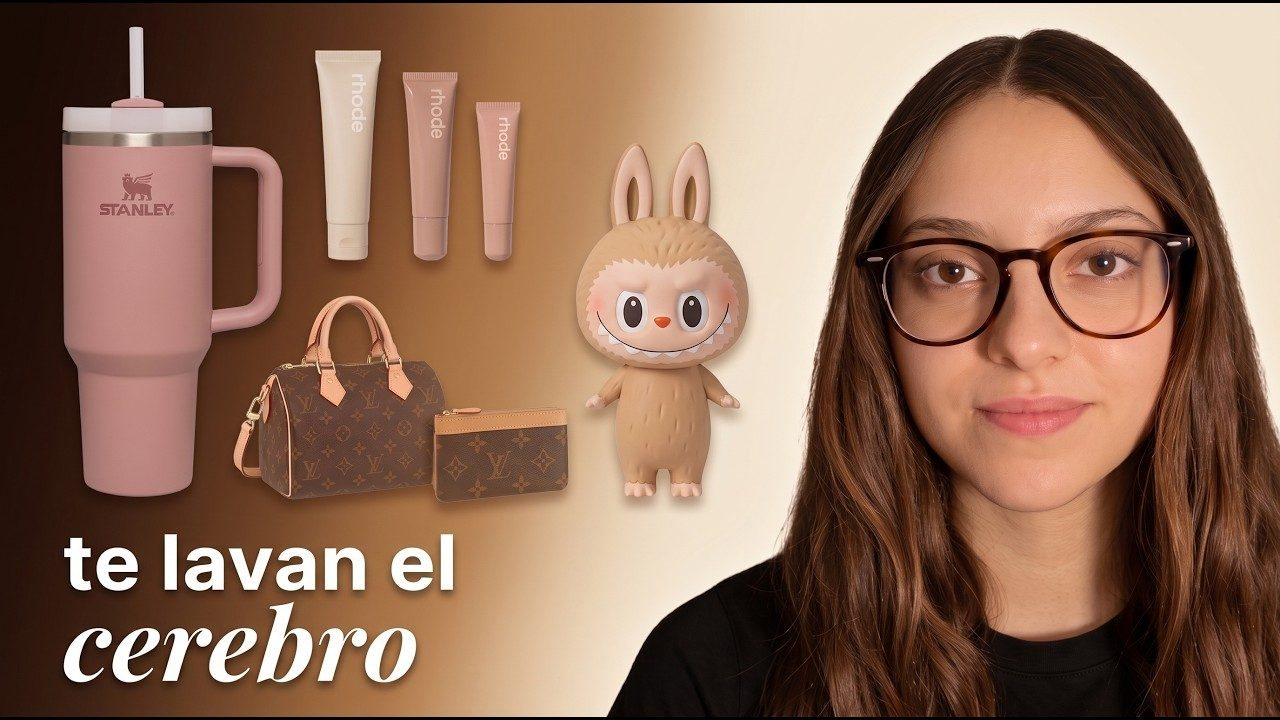
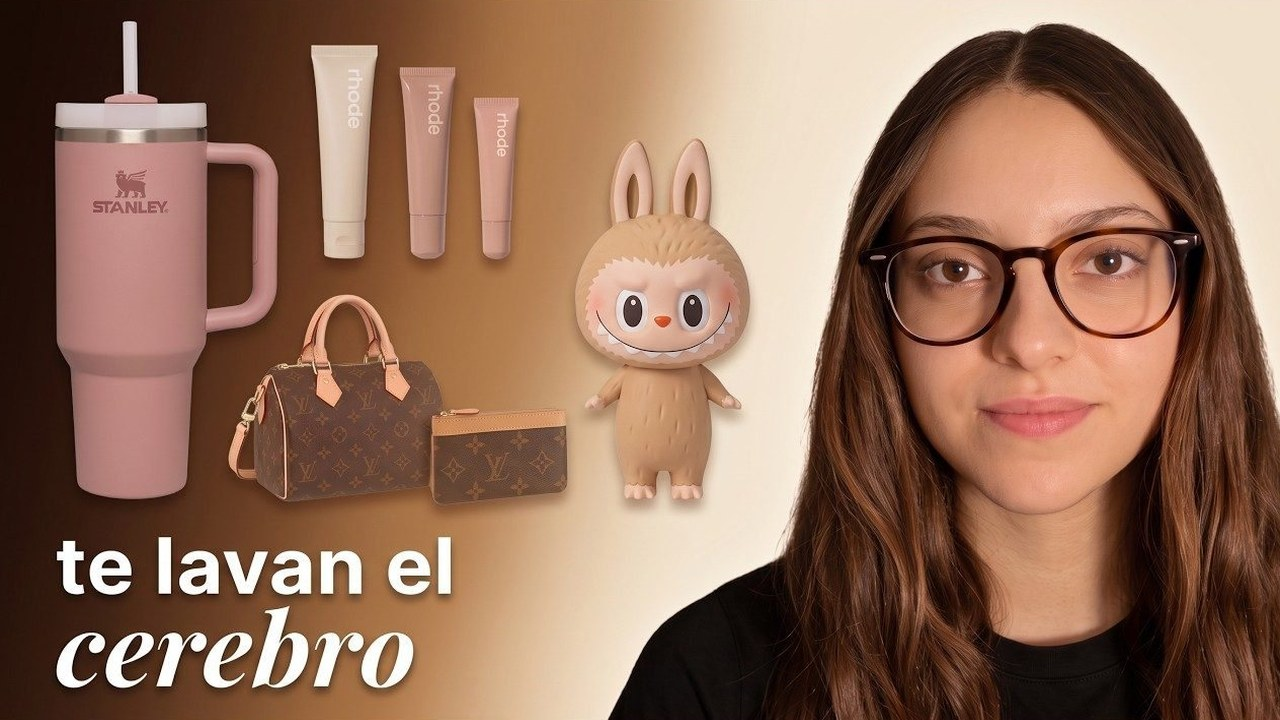
Add files via upload

diff --git a/index.html b/index.html
@@ -390,6 +390,16 @@ em, .hero__title em, .h2 em, .contact__title em { font-family: "Playfair Display
 .brands__actions { align-items: center; gap: 22px; }
 @media (max-width: 980px) { .tool__grid { grid-template-columns: 1fr; } }
 
+.facts { grid-template-columns: repeat(2, 1fr) !important; }
+.facts li { border-right: 1px solid var(--line); border-bottom: 1px solid var(--line); }
+.facts li:nth-child(2n) { border-right: 0; }
+.facts li:nth-child(n+3) { border-bottom: 0; }
+.facts small { display: block; font-size: 13px; font-weight: 500; color: var(--ink-soft); margin-top: 4px; }
+@media (max-width: 760px) { .facts { grid-template-columns: 1fr !important; } .facts li { border-right: 0 !important; border-bottom: 1px solid var(--line) !important; } .facts li:last-child { border-bottom: 0 !important; } }
+
+.tool__name { display: flex; align-items: center; gap: 14px; }
+.tool__name img { width: 52px; height: 52px; border-radius: 50%; }
+
 </style>
 </head>
 <body>
@@ -444,7 +454,7 @@ em, .hero__title em, .h2 em, .contact__title em { font-family: "Playfair Display
         </div>
         <div class="rail">
           <a class="video video--feat reveal" href="https://www.youtube.com/watch?v=me-VSRYuJYA" target="_blank" rel="noopener">
-            <span class="video__img"><img src="video-1.jpg" alt="" width="1280" height="720"><span class="play" aria-hidden="true"></span></span>
+            <span class="video__img"><img src="video-1.jpg?v=2" alt="" width="1280" height="720"><span class="play" aria-hidden="true"></span></span>
             <span class="video__meta"><h3>Por qué todas las marcas parecen una secta hoy en día</h3></span>
           </a>
           <a class="video reveal" href="https://www.youtube.com/watch?v=U79sUEmxNso" target="_blank" rel="noopener">
@@ -483,7 +493,7 @@ em, .hero__title em, .h2 em, .contact__title em { font-family: "Playfair Display
             <div class="form__row">
               <input type="text" name="nombre" placeholder="Tu nombre" autocomplete="given-name" required maxlength="80" aria-label="Tu nombre">
               <input type="email" name="email" placeholder="Tu email" autocomplete="email" required maxlength="120" aria-label="Tu email">
-              <button class="btn btn--light" type="submit">Quiero las 13 páginas</button>
+              <button class="btn btn--light" type="submit">Desbloquear gratis</button>
             </div>
             <input class="hp" type="text" name="web" tabindex="-1" autocomplete="off" aria-hidden="true">
             <label class="check">
@@ -508,7 +518,7 @@ em, .hero__title em, .h2 em, .contact__title em { font-family: "Playfair Display
           <h2 class="h2">Así encuentro <em>mis ideas.</em></h2>
         </div>
         <a class="tool__card reveal" href="https://1of10.com/?via=klauvara" target="_blank" rel="sponsored noopener">
-          <span class="tool__name">1of10</span>
+          <span class="tool__name"><img src="logo-1of10.png" alt="" width="160" height="160">1of10</span>
           <span class="tool__desc">La herramienta que uso para ver qué ideas y formatos están captando atención en YouTube antes de grabar.</span>
           <span class="tool__cta">Probar 1of10 ↗</span>
           <span class="tool__note">Enlace de afiliado: si te suscribes, me llevo una pequeña comisión sin coste extra para ti.</span>
@@ -526,8 +536,9 @@ em, .hero__title em, .h2 em, .contact__title em { font-family: "Playfair Display
         </div>
         <div class="brands__grid">
           <ul class="facts reveal">
-            <li><span>Audiencia</span>España y Latinoamérica</li>
-            <li><span>Temas</span>Negocios, marcas y consumo</li>
+            <li><span>Edad</span>25–44 años <small>62 % de la audiencia</small></li>
+            <li><span>Países</span>España, México, Argentina y Colombia</li>
+            <li><span>Público</span>53 % mujeres · 47 % hombres</li>
             <li><span>Ritmo</span>Un vídeo cada domingo</li>
           </ul>
           <div class="trust reveal">
@@ -576,7 +587,7 @@ em, .hero__title em, .h2 em, .contact__title em { font-family: "Playfair Display
 
   <footer class="foot">
     <div class="wrap foot__in">
-      <p>© <span id="year"></span> Claudia Fernández · Klauvara <span style="opacity:.4">· v18</span></p>
+      <p>© <span id="year"></span> Claudia Fernández · Klauvara <span style="opacity:.4">· v20</span></p>
       <details class="privacy" id="privacidad">
         <summary>Protección de datos</summary>
         <p>Responsable: Claudia Fernández (Klauvara), hola@klauvara.com. Finalidad: enviarte mi historia y novedades de Klauvara. Legitimación: tu consentimiento. Tus datos se guardan en una hoja de cálculo de mi cuenta de Google y no se ceden a terceros. Puedes acceder, rectificar o pedir que borre tus datos escribiendo a hola@klauvara.com.</p>
